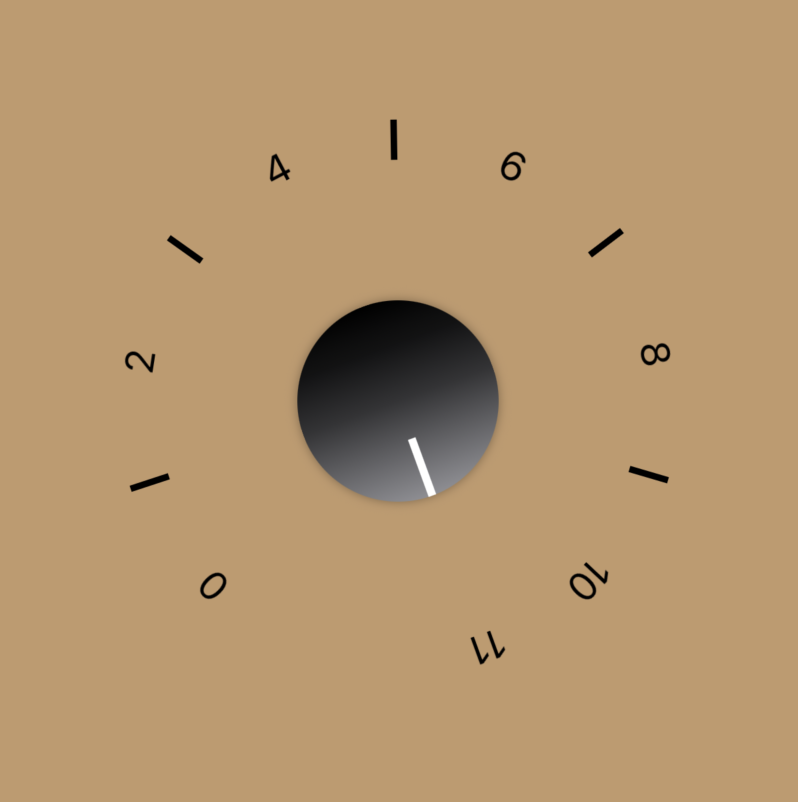
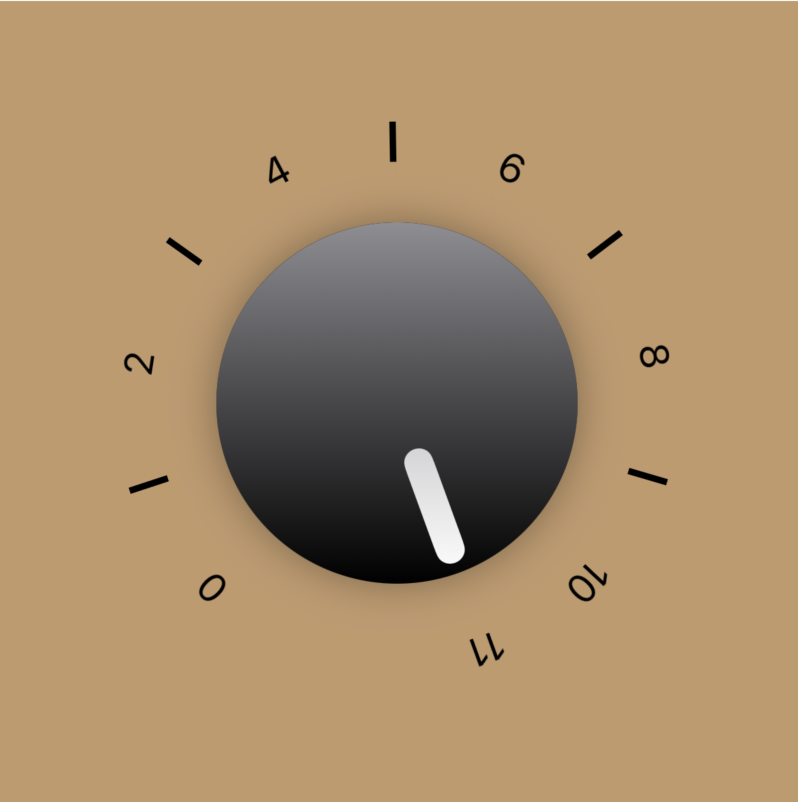
Sample improvements

diff --git a/Sources/SbjGauge/UpTo11/UpTo11Knob.swift b/Sources/SbjGauge/UpTo11/UpTo11Knob.swift
@@ -1,0 +1,40 @@
+//
+//  UpTo11Knob.swift
+//  SbjGauge
+//
+//  Created by David Giovannini on 4/10/25.
+//
+
+import SwiftUI
+
+public extension Gauge.UpTo11 {
+	struct Knob: View {
+		let geom: GeometryProxy
+		let width: Double
+		public var body: some View {
+			let actualWidth = geom.width(width)
+			let tickHeight = actualWidth * 0.333
+			let offset = (actualWidth - tickHeight)/2 - actualWidth * 0.03
+			Circle()
+				.fill(.black)
+				.shadow(
+					radius: geom.radius(0.05))
+				.frame(
+					width: actualWidth,
+					height: actualWidth)
+				.overlay(
+					RoundedRectangle(cornerRadius: actualWidth * 0.04)
+						.fill(Color.white)
+						.frame(width: actualWidth * 0.08,
+							height: tickHeight)
+						.offset(y: -offset)
+				)
+		}
+	}
+}
+
+#Preview {
+	ZStackSquare(preview: true) {
+		Gauge.UpTo11.Knob(geom: $0, width: 0.45)
+	}
+}

diff --git a/Sources/SbjGauge/UpTo11/UpTo11Shine.swift b/Sources/SbjGauge/UpTo11/UpTo11Shine.swift
@@ -1,0 +1,32 @@
+//
+//  GuitarAmpKnob.swift
+//  SbjGauge
+//
+//  Created by David Giovannini on 4/10/25.
+//
+
+import SwiftUI
+
+public extension Gauge.UpTo11 {
+	struct Shine: View {
+		let geom: GeometryProxy
+		let width: Double
+
+		public var body: some View {
+			ZStack {
+				Circle()
+					.fill(LinearGradient(
+					gradient: Gradient(colors: [.gray, .clear]),
+					startPoint: .top,
+					endPoint: .bottom ))
+				.frame(width: geom.width(width), height: geom.width(width))
+			}
+		}
+	}
+}
+
+#Preview {
+	ZStackSquare(preview: true) {
+		Gauge.UpTo11.Shine(geom: $0, width: 0.45)
+	}
+}

diff --git a/Sources/SbjGauge/UpTo11/Gauge+UpTo11.swift b/Sources/SbjGauge/UpTo11/Gauge+UpTo11.swift
@@ -27,9 +27,10 @@ public extension Gauge {
 						color: .black)
 				},
 				needle: { geom, _, _, _ in
-					UpTo11.GuitarAmpKnob(geom: geom)
+					UpTo11.Knob(geom: geom, width: 0.45)
 				},
-				foreground: { _, _ in EmptyView()
+				foreground: { geom, _ in
+					UpTo11.Shine(geom: geom, width: 0.45)
 				}
 			)
 	}

diff --git a/Sources/SbjGauge/Clock/Gauge+Clock.swift b/Sources/SbjGauge/Clock/Gauge+Clock.swift
@@ -14,7 +14,7 @@ public extension Gauge {
 
 public extension Gauge {
 	/**
-	 * Given a swift Date, render the time in a 12 hour analog clock.
+	 * Given a Swift Date, render the time in a 12 hour analog clock.
 	 */
 	static func clock(preview: Bool = false, _ date: Date) -> some View {
 		return Gauge.CompositionView(

diff --git a/README.md b/README.md
@@ -1,26 +1,28 @@
 # SbjGauge
 
-Custumizable analog multi-indicator SwiftUI gauge
+Customizable analog multi-indicator SwiftUI gauge.
 
 Inspired by: https://github.com/Will-tm/WMGaugeView
 
 ## Design Goals
 
-I struggle with the oversimplified symbolic UI in most applications; done in the name of minimalism. It is easy to draw a single color incomplete circle and call it a gauge. My goal is create a library that makes it easy to create a detailed multi-value gauge with the level of skeuomorphism that fits your application's visual language.
+I struggle with the oversimplified symbolic UI in most applications; done in the name of minimalism. Many gauges are a a single color arc with maybe an arrow. That is not enough information for a glanceable read.
+
+My goal is to create a library that makes it easy to design a detailed multi-value gauge with the level of skeuomorphism that fits your application's visual language.
 
 This library has continued to evolve as my knowledge of SwiftUI increases and SwiftUI's capabilties evolve. Every rendering strategy and value is being bubbled to the public interface; with reasonable defaults.
 
-The gauge renders well on iPhone, iPad, Watch, and AppleTV. I have not thought about the 3D space of AppleVision.
+The gauges render well on iPhone, iPad, Watch, and AppleTV. I have not thought about the 3D space of AppleVision.
 
 ## Simple Instantiation
 
-To create the basic uncustomized gauge:
+To create a basic uncustomized gauge:
 
 `Gauge.CompositionView(.init(value: 1.5))`
 
 <img src="Sample-Default.png" alt="Default" width="200">
 
-The CompositionView's constructor exposes all the view builders for the various components. I have created two other builtin schemes for the Gauge; Clock and Power.
+The CompositionView's constructor exposes all the component view builders for customization. I have created other built-in schemes of the gauge: Clock, Power, and Up to 11.
 
 <img src="Sample-Clock.png" alt="Clock" width="200">
 <img src="Sample-Power.png" alt="Power" width="200">
